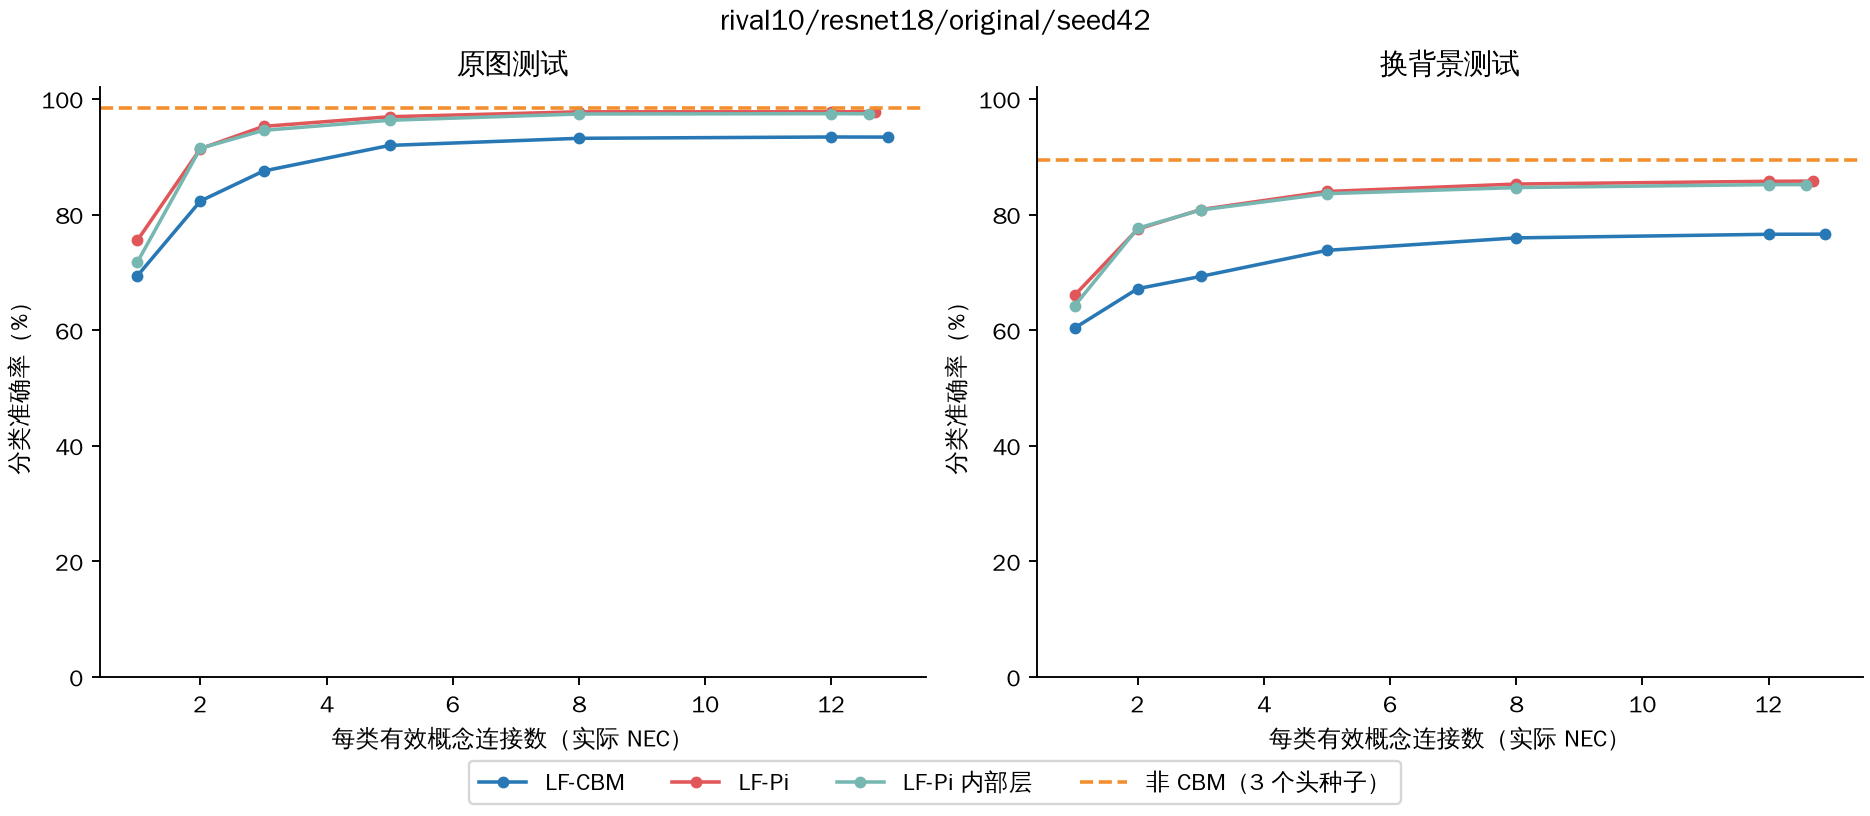
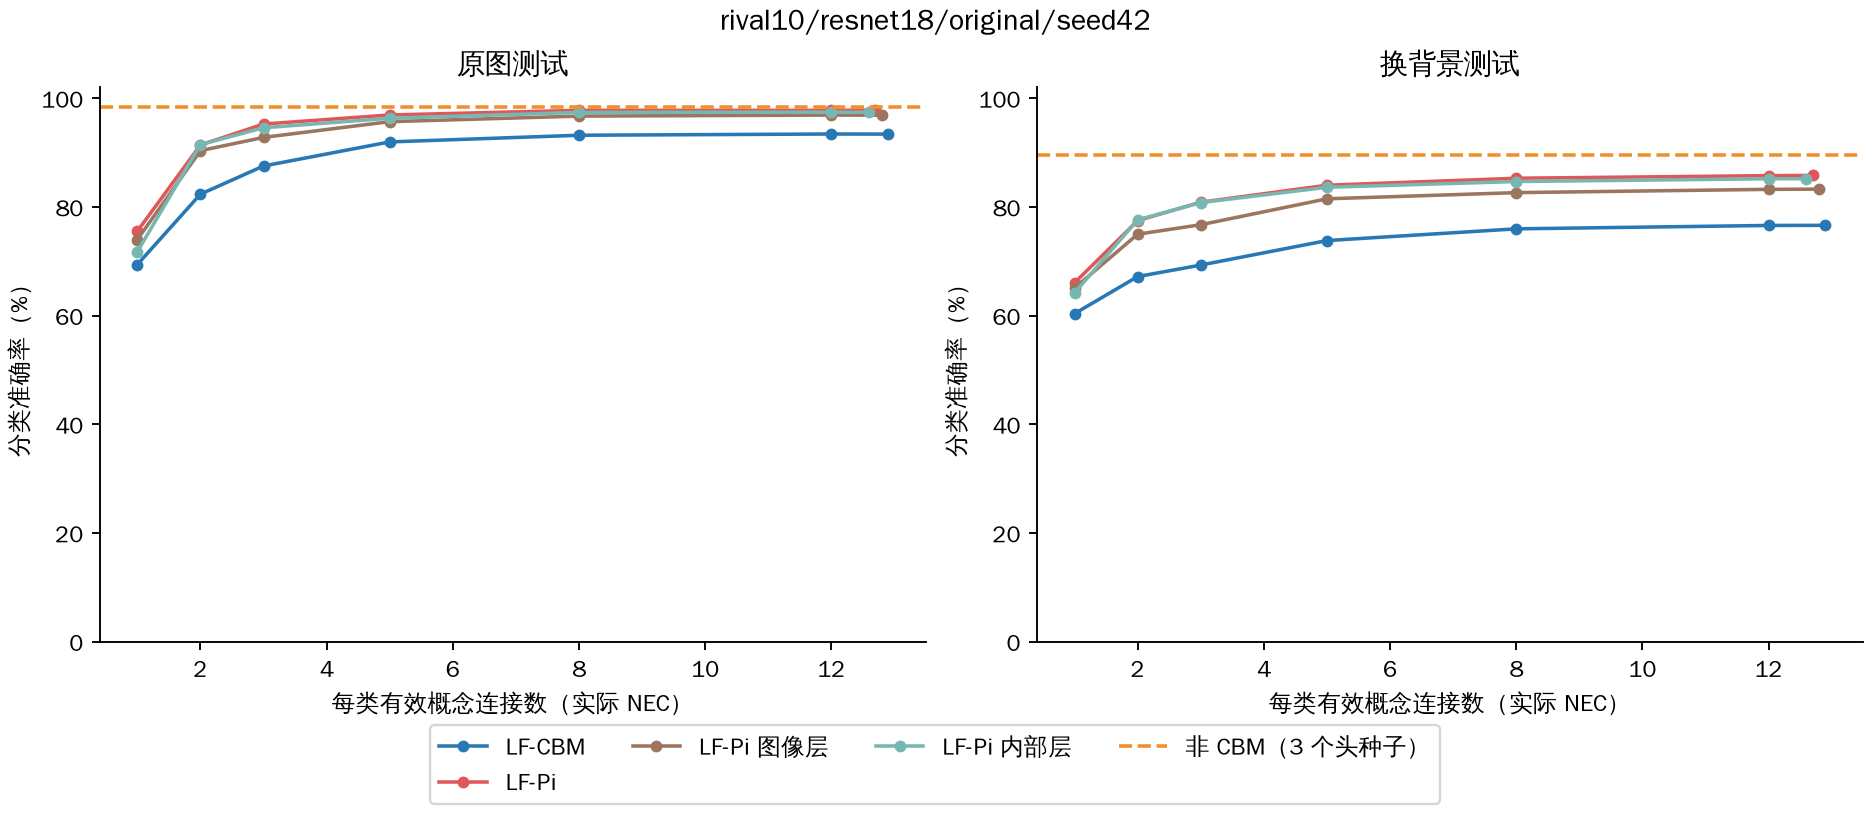
Add independently reconstructed image-level LF-Pi NEC predictions

diff --git a/reports/GENERALIZATION_RESULT.md b/reports/GENERALIZATION_RESULT.md
@@ -146,6 +146,7 @@
 | --- | --- | --- | --- |
 | LF-CBM | 93.30% | 75.71% | 0 |
 | LF-Pi | 97.54% | 84.55% | 0 |
+| LF-Pi 图像层 | 96.59% | 82.45% | 0 |
 | LF-Pi 内部层 | 97.18% | 84.57% | 0 |
 | 非 CBM | 98.38% | 89.50% | — |
 
